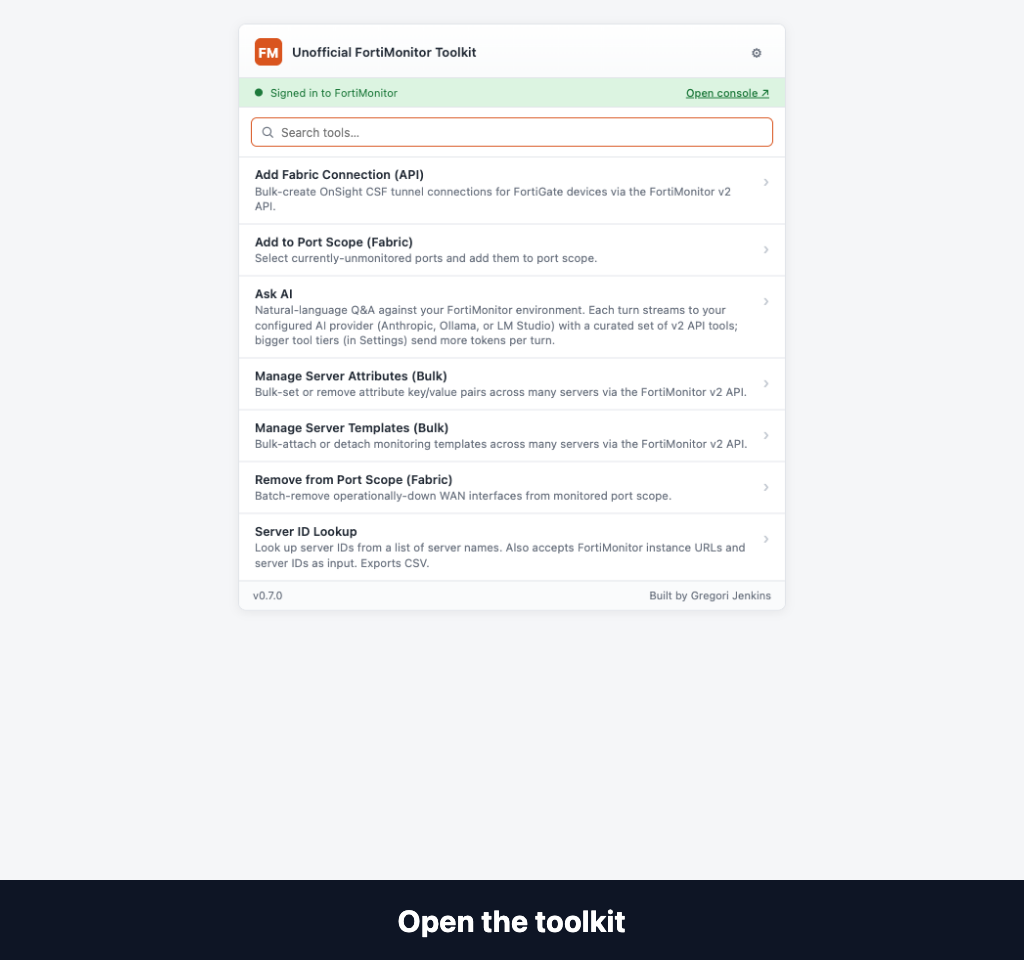
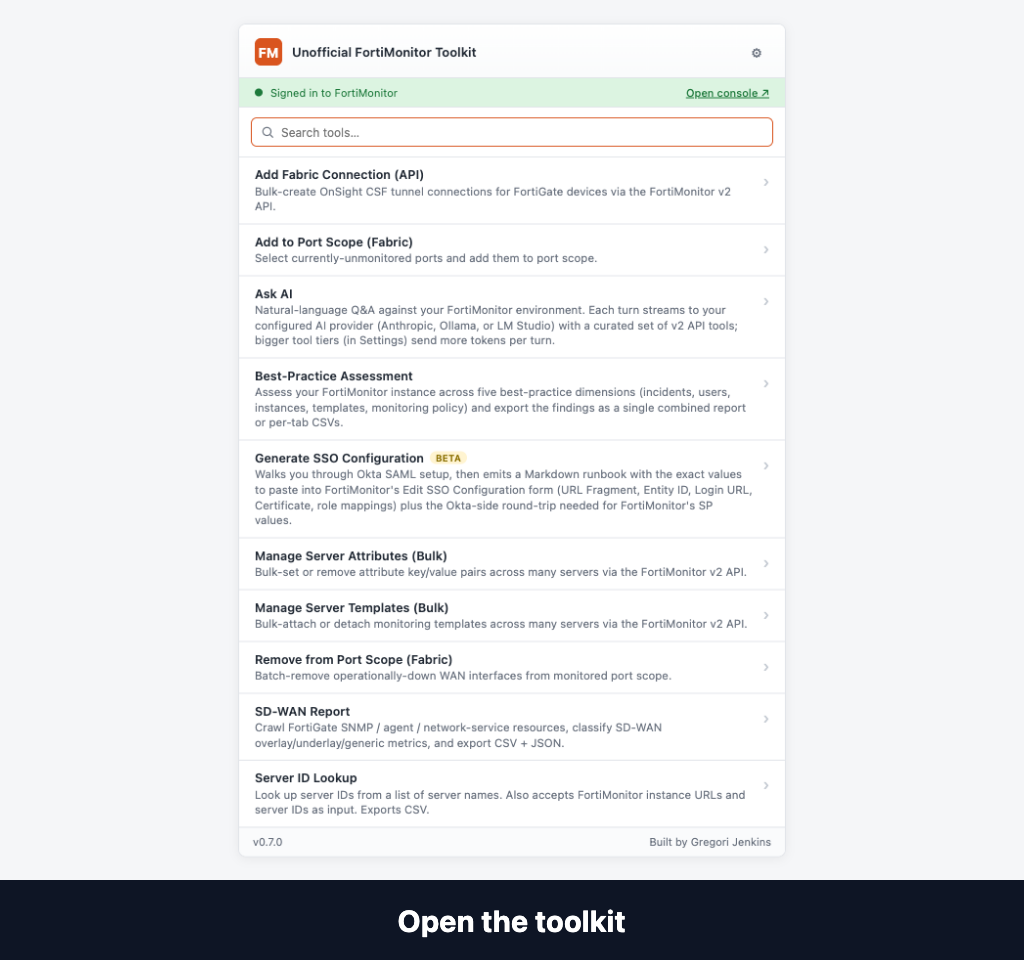
FMN-142: refresh hero GIF popup phase to show all 11 tiles
The hero GIF's opening phase showed only the 8 always-on tiles, while
the README's Screenshots section (post-FMN-141) advertises all 11 tiles
plus the three Beta-flagged ones. Brings the GIF in line with the rest
of the page.

Capture changes (tests/marketing/capture.spec.js):
  - Hero flow test enables fm:sdwanReportEnabled / fm:bpaAuditEnabled /
    fm:ssoConfigEnabled in storage right before the popup screenshot,
    mirroring the popup-launcher test's pattern. Wizard frames don't
    render the popup, so they're unaffected by the flag.

Frame regeneration:
  - frames/01-popup.png and frames/captioned/01-popup.png re-captured
    with all 11 tiles. 02-load / 03-review / 04-results are byte-
    identical to HEAD (delta 0).
  - hero.gif rebuilt via tests/marketing/build-hero-gif.sh (xfade chain,
    15fps, 195 frames, ~2.6MB) - captions and cross-fade transitions
    from FMN-127 carry over unchanged.

Changed region(s): [[0.25, 0.375, 0.75, 0.6562], [0.25, 0.6875, 0.7188, 0.875], [0.625, 0.875, 0.75, 0.9062]]

diff --git a/tests/marketing/capture.spec.js b/tests/marketing/capture.spec.js
@@ -379,6 +379,20 @@ test('hero flow: add fabric connection (4 frames)', async ({ extensionContext, e
   await stubV2Api(extensionContext);
   await stubFabricCreate(extensionContext);
 
+  // FMN-142: enable the three Beta tiles so the popup phase of the
+  // hero GIF reflects the full 11-tile toolkit, matching the README's
+  // Screenshots gallery (FMN-141). The wizard frames don't render the
+  // popup, so they're unaffected.
+  const heroSw = extensionContext.serviceWorkers()[0]
+    ?? await extensionContext.waitForEvent('serviceworker', { timeout: 10_000 });
+  await heroSw.evaluate(async () => {
+    await chrome.storage.local.set({
+      'fm:sdwanReportEnabled': true,
+      'fm:bpaAuditEnabled': true,
+      'fm:ssoConfigEnabled': true
+    });
+  });
+
   // ---- Frame 1: Popup launcher ----
   // Render the popup at hero viewport so the @media (min-width: 500px) rule
   // engages: popup centers as a card on the backdrop, matching the wizard